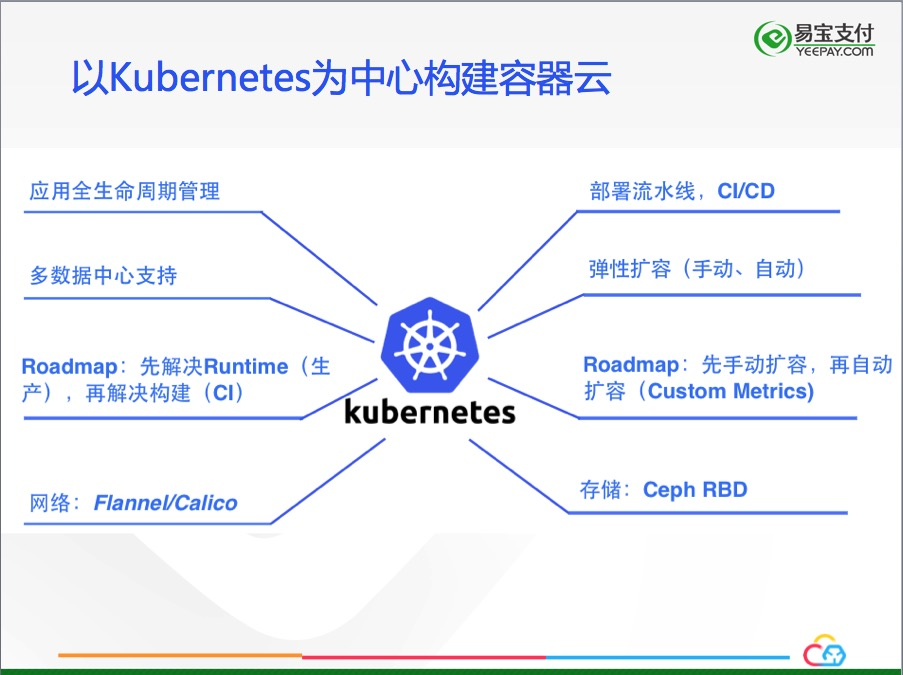
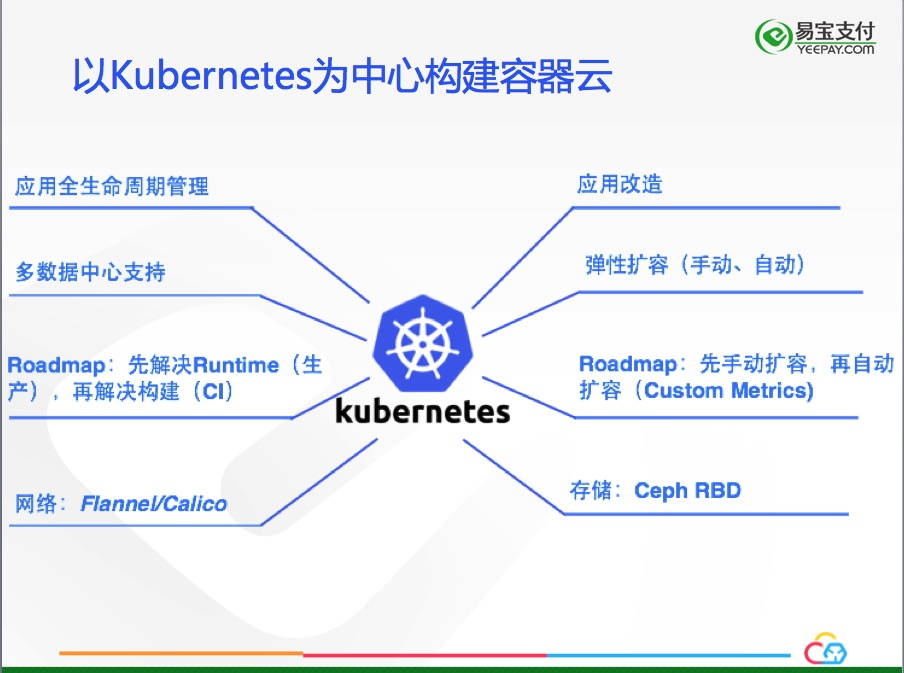
modify image files

diff --git a/Presentation/DockerOne/README.md b/Presentation/DockerOne/README.md
@@ -55,3 +55,74 @@ Kubernetes是我们的最终选择，它当时已经是1.0.2版本，已经是"P
 
 ### 以Kubernetes为中心构建容器云
 --------------------
+
+![](images/kubernetes1.png)
+
+容器云的目标决定了我们面对的是应用的管理，即应用对应的docker容器的管理，这就要求我们要以Kubernetes为中心构建容器云，而不是以docker为中心。Docker只作为应用打包、传递、运行时的工具，所有的API都要面向Kubernetes进行设计。
+
+容器云要实现高可用的基础设施，能够支持多个数据中心。对于应用，要有多维度的高可用保证，要贯通部署流水线，通过CI/CD实现快速交付，另外，容器云的建设肩负的额外目标是要为未来2~4年的技术发展做铺垫，对于应用的CloudNative改造和整个技术团队的DevOps实践奠定基础。
+
+![](images/kubernetes2.png)
+
+容器云第一步是实现应用的全生命周期管理，让应用实现秒级的上线、回滚、升级、扩容/缩容、下线。由于历史的原因，有些应用的配置和环境耦合在一起，有的应用是对于外部依赖是硬编码（例如写死了服务方的IP地址）等，这些应用在迁移至容器云之前需要进行改造。
+
+容器云要实现多数据中心多活，以保证数据中心级的高可用性。对于弹性扩容，我们的计划是先实现手动扩容，在实现自动扩容，对于自动扩容，先实现基于CPU/Memory的自动扩容，再实现基于Custom Metrics的自动扩容。与大多数构建容器云的方式不同，我们首先解决生产环境的运维自动化的问题，其次再解决容器的构建问题（即CI/CD)。我们的网络选型是flannel，万兆网络，flannel虽说有性能损失，远能满足我们的实际需要。存储我们使用Ceph的RBD方式，使用一年多来，RBD的方案非常稳定。Ceph FS的方式我们也有尝试，但是由于团队精力有限和可能的奉献，一直没有正式使用。
+
+
+### 高可用基础设施
+----------------------
+
+容器云要实现高可用的基础设施，多维度保证应用/服务的高可用性：
+
+![](images/infrastructuer.png)
+
+在应用层面，每个应用有至少3个副本，通过Kubernetes ReplicationController/ReplicaSets来保证。强制每个应用暴露健康检查接口，通过（liveness和readness）保证应用异常后能够被及时的发现，从而用新的实例代替。
+
+Kubernetes的组件也要实现高可用，特别是ETCD集群的高可用，定期备份ETCD的数据是个好习惯。
+
+为了保证数据中心级别的高可用，我们在每个数据中心部署了一套Kubernetes集群，每个数据中心能够独立存活，多个数据中心互相灾备。
+
+### 计算资源QoS与超卖
+----------------------
+
+![](images/qos.png)
+
+### 容器云管理平台
+----------------------
+
+![](images/yce.png)
+
+
+随着越来越多的应用迁移到容器云中，需要建立一个可视化的管理系统，我们使用Kubernetes原生API搭建一套Web管理系统，通过对Namespace/ResourceQuota/Deployment/Service/Endpoint等API的调用实现资源配额的划分和应用生命周期的管理。
+
+容器云平台在易用性方面最大的挑战是Troubleshooting的环节，容器云最终是要交付开发人员使用，他们对Kubernetes并不了解，这让Troublesh的环境富有挑战，我们现在只是想通过websocket将kubectl exec的console展示给用户，没有更好的方案，如果各位有更好的方案，请不吝赐教。
+
+容器云未来要实现整个数据中心的可视化，让运维对所有的数据中心的运行情况一目了然，当然，实现这一目标有相当的难度。
+
+容器云的监控采用Heapster的方案，正在向Prometheus方式转变。
+
+日志收集方式是EFK的组合
+
+容器云管理系统的基本功能如下图所示：
+
+![](images/yceui.png)
+
+
+日志收集方案如下图所示：
+
+![](images/efk.png)
+
+我们为Java应用提供了一个公共日志组件——appender，它会将java的日志流式输出到fluend中转，输出到fluentd中转的原因是与现有的日志中心并行运行。其他的部分跟主流的EFK模式没有任何区别。
+
+
+在容器时代，CloudNative应用是必然的选择，构建云原生应用的原则请参考[12因子](https://12factor.net/zh_cn/)。
+
+容器云管理系统也是个CloudNative应用，它也运行在Kubernetes中，与传统的上线工具不同的是，它能够进行自我生命周期管理。
+
+Container based, Mircoservices Oriented是CloudNative倡导，只有应用向CloudNative转化，才能更好的发挥容器云的效力。
+
+
+### CI/CD建设
+------------------
+
+![](images/cicd.png)
